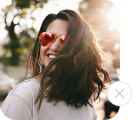
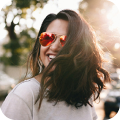
Update registration page

diff --git a/Screens/RegistrationScreen.js b/Screens/RegistrationScreen.js
@@ -1,11 +1,16 @@
 import { TouchableOpacity, Image, StyleSheet, Text, TextInput, View, Platform } from "react-native"
+import photoAdd from '../assets/btn-add.png'
+import photoRemove from '../assets/btn-remove.png'
+import userPhoto from '../assets/user-photo.jpg'
 
 const RegistrationScreen = () => {
     return (
         <View style={styles.section}>
             <View style={styles.wrapper}>
-                <TextInput placeholder="Photo" style={styles.photo}/>
-                <Image style={styles.svg}/>
+                <Image source={userPhoto} style={styles.photo} />
+                <TouchableOpacity style={styles.btnAdd}>
+                    <Image source={photoAdd} style={styles.svg}/>
+                </TouchableOpacity>
                 <Text style={styles.title}>Реєстрація</Text>
                 <TextInput placeholder="Логін" style={styles.input}/>
                 <TextInput placeholder="Адреса електронної пошти" style={styles.input}/>
@@ -33,12 +38,19 @@ const styles = StyleSheet.create({
     },
     photo: {
         position: 'absolute',
+        top: -50,
+        left: 150,
         width: 120,
         height: 120,
         backgroundColor: '#F6F6F6',
         borderRadius: 16,
     },
-    svg: {},
+    btnAdd: {
+        position: 'absolute',
+        top: 30,
+        left: 257,
+        backgroundColor: 'transparent',
+    },
     title: {
         marginTop: 32,
         marginBottom: 32,
